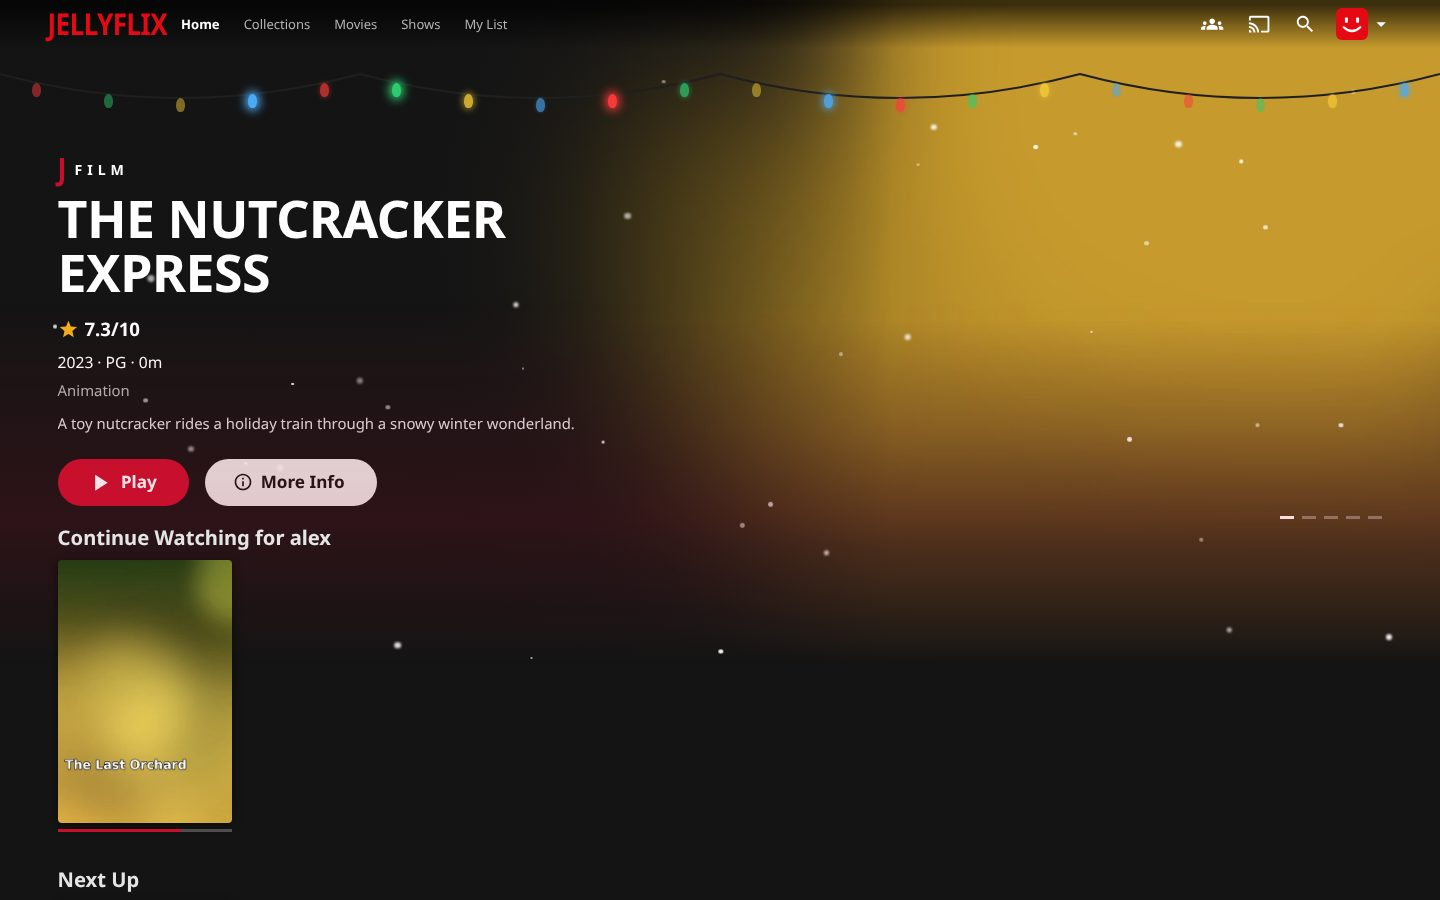
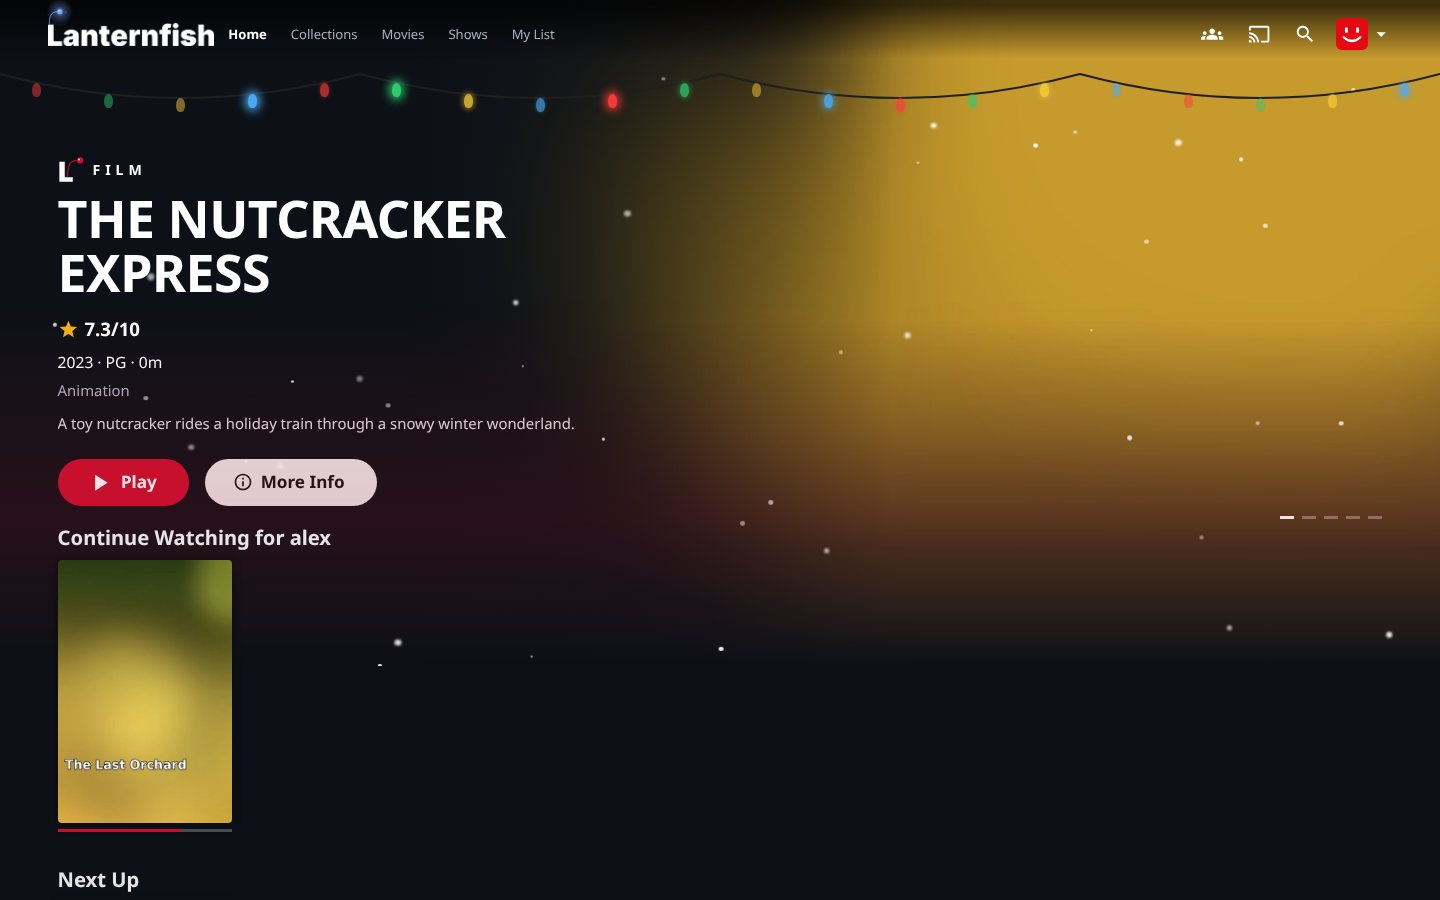
Rebrand to Lanternfish
- The Lanternfish wordmark in the top bar: the brand artwork's lettering,
  with the lure drawn in the theme's accent color so it glows in every theme
  (components/branding). The top bar gains room above for the lure.
- The L-and-lure mark replaces the "J" on hero badges, the dashboard menu
  and the dashboard header.
- Lanternfish favicon, touch icons and installed-app name and colors; the
  browser tab is named Lanternfish.
- Interface strings, dashboard section, card and settings page say
  Lanternfish. Internal names, API paths and settings keys are unchanged.
- Brand assets in docs/brand; new banner; README and every screenshot
  updated in the Midnight theme, with a section on the color themes.

Claude-Session: https://claude.ai/code/session_01UcX3L2D4GVSLMbVKHiMSry

diff --git a/src/apps/modern/components/AppToolbar/LanternfishLogo.tsx b/src/apps/modern/components/AppToolbar/LanternfishLogo.tsx
@@ -1,47 +1,19 @@
 import Box from '@mui/material/Box';
-import Typography from '@mui/material/Typography';
 import React, { type FC } from 'react';
 import { Link } from 'react-router-dom';
 
-/** The Lanternfish wordmark, linking home: the glowing lure (in the theme's accent) and the name. */
-const LanternfishLogo: FC = () => (
+import LanternfishLogo from 'components/branding/LanternfishLogo';
+
+/** The Lanternfish wordmark, linking home. The lure rises above it, into the top bar's padding. */
+const AppLogo: FC = () => (
     <Box
         component={Link}
         to='/home'
         aria-label='Lanternfish'
-        sx={{
-            display: 'inline-flex',
-            alignItems: 'flex-end',
-            gap: '0.15em',
-            mr: { xs: 1, md: 3 },
-            color: 'text.primary',
-            fontSize: { xs: '1.3rem', md: '1.6rem' },
-            lineHeight: 1,
-            textDecoration: 'none',
-            whiteSpace: 'nowrap',
-            userSelect: 'none'
-        }}
+        sx={{ display: 'inline-flex', alignItems: 'center', mr: { xs: 1, md: 3 }, textDecoration: 'none', userSelect: 'none' }}
     >
-        <Box
-            aria-hidden
-            sx={{
-                display: 'flex',
-                width: '0.7em',
-                height: '1.05em',
-                color: 'primary.main',
-                filter: 'drop-shadow(0 0 0.18em currentColor)'
-            }}
-        >
-            <svg viewBox='0 0 20 30' width='100%' height='100%' fill='none'>
-                <path d='M3 30 C3 13 8 6 14 6' stroke='currentColor' strokeWidth='2.4' strokeLinecap='round' />
-                <circle cx='15' cy='6' r='4.6' fill='currentColor' />
-                <circle cx='13.6' cy='4.6' r='1.5' fill='#fff' fillOpacity='0.85' />
-            </svg>
-        </Box>
-        <Typography component='span' sx={{ font: 'inherit', fontWeight: 800, letterSpacing: '-0.02em' }}>
-            Lanternfish
-        </Typography>
+        <LanternfishLogo height={{ xs: '19px', md: '24px' }} />
     </Box>
 );
 
-export default LanternfishLogo;
+export default AppLogo;

diff --git a/src/components/branding/Lure.tsx b/src/components/branding/Lure.tsx
@@ -1,0 +1,45 @@
+import Box from '@mui/material/Box';
+import type { SxProps, Theme } from '@mui/material/styles';
+import React, { type FC, useId } from 'react';
+
+interface LureProps {
+    viewBox: string
+    /** Where the stalk starts, on top of the L. */
+    base: [ number, number ]
+    /** The glowing orb's centre. */
+    orb: [ number, number ]
+    orbRadius: number
+    stroke: number
+    /** The soft glow around the orb; none when 0. */
+    glowRadius: number
+    sx?: SxProps<Theme>
+}
+
+/** The lanternfish's lure: a stalk curving up and over to a glowing orb, in the theme's accent color. */
+const Lure: FC<LureProps> = ({ viewBox, base: [ bx, by ], orb: [ ox, oy ], orbRadius, stroke, glowRadius, sx }) => {
+    const glowId = useId();
+    // Up from the L, then over to the orb's left edge
+    const end = ox - orbRadius * 0.95;
+    const path = `M${bx} ${by} C${bx} ${oy + (by - oy) * 0.35} ${bx + (end - bx) * 0.2} ${oy} ${end} ${oy}`;
+    return (
+        <Box component='svg' viewBox={viewBox} aria-hidden sx={[ { color: 'primary.main' }, ...(Array.isArray(sx) ? sx : [ sx ]) ]}>
+            {glowRadius > 0 && (
+                <>
+                    <defs>
+                        <radialGradient id={glowId}>
+                            <stop offset='0' stopColor='currentColor' stopOpacity='0.75' />
+                            <stop offset='0.4' stopColor='currentColor' stopOpacity='0.3' />
+                            <stop offset='1' stopColor='currentColor' stopOpacity='0' />
+                        </radialGradient>
+                    </defs>
+                    <circle cx={ox} cy={oy} r={glowRadius} fill={`url(#${glowId})`} />
+                </>
+            )}
+            <path d={path} stroke='currentColor' strokeWidth={stroke} fill='none' strokeLinecap='round' />
+            <circle cx={ox} cy={oy} r={orbRadius} fill='currentColor' />
+            <circle cx={ox - orbRadius * 0.32} cy={oy - orbRadius * 0.32} r={orbRadius * 0.3} fill='#fff' opacity='0.75' />
+        </Box>
+    );
+};
+
+export default Lure;

diff --git a/src/components/branding/LanternfishLogo.tsx b/src/components/branding/LanternfishLogo.tsx
@@ -1,0 +1,35 @@
+import Box from '@mui/material/Box';
+import type { SxProps, Theme } from '@mui/material/styles';
+import React, { type FC } from 'react';
+
+import wordmark from 'assets/img/lanternfish/wordmark.png';
+
+import Lure from './Lure';
+
+interface LanternfishLogoProps {
+    /** Height of the lettering, e.g. '24px' or '2vw'. The lure rises above it. */
+    height: string | object
+    sx?: SxProps<Theme>
+}
+
+/**
+ * The Lanternfish wordmark: the lettering from the brand artwork, with the lure drawn in the theme's accent color
+ * so it glows in every color theme.
+ */
+const LanternfishLogo: FC<LanternfishLogoProps> = ({ height, sx }) => (
+    <Box component='span' role='img' aria-label='Lanternfish' sx={[ { position: 'relative', display: 'inline-block', height, lineHeight: 0 }, ...(Array.isArray(sx) ? sx : [ sx ]) ]}>
+        <Box component='img' src={wordmark} alt='' sx={{ height: '100%', width: 'auto', display: 'block' }} />
+        {/* Measured from the brand artwork, in units of the lettering's height */}
+        <Lure
+            sx={{ position: 'absolute', left: 0, top: '-100%', height: '200%', width: 'auto', overflow: 'visible', pointerEvents: 'none' }}
+            viewBox='0 -100 120 200'
+            base={[ 5.28, 11.06 ]}
+            orb={[ 49.25, -43.22 ]}
+            orbRadius={11.06}
+            stroke={3.52}
+            glowRadius={55}
+        />
+    </Box>
+);
+
+export default LanternfishLogo;

diff --git a/src/components/branding/LanternfishMark.tsx b/src/components/branding/LanternfishMark.tsx
@@ -1,0 +1,29 @@
+import Box from '@mui/material/Box';
+import type { SxProps, Theme } from '@mui/material/styles';
+import React, { type FC } from 'react';
+
+import Lure from './Lure';
+
+/**
+ * The Lanternfish mark from the app icon: the L, with its lure in the theme's accent color. Sized by its width, like
+ * a Material icon.
+ */
+const LanternfishMark: FC<{ size?: string | number, glow?: boolean, sx?: SxProps<Theme> }> = ({ size = 24, glow = false, sx }) => (
+    <Box component='span' aria-hidden sx={[ { position: 'relative', display: 'inline-block', width: size, height: size, lineHeight: 0, flexShrink: 0 }, ...(Array.isArray(sx) ? sx : [ sx ]) ]}>
+        {/* Coordinates from the 512px app icon, cropped to the mark */}
+        <Box component='svg' viewBox='70 80 350 350' sx={{ position: 'absolute', inset: 0, width: '100%', height: '100%', color: 'text.primary' }}>
+            <path d='M88 155 H158 V358 H263 V415 H88 Z' fill='currentColor' />
+        </Box>
+        <Lure
+            viewBox='70 80 350 350'
+            sx={{ position: 'absolute', inset: 0, width: '100%', height: '100%', overflow: 'visible' }}
+            base={[ 194.5, 343 ]}
+            orb={[ 358, 138 ]}
+            orbRadius={41}
+            stroke={14}
+            glowRadius={glow ? 170 : 0}
+        />
+    </Box>
+);
+
+export default LanternfishMark;

diff --git a/src/apps/modern/features/home/components/HeroBanner.tsx b/src/apps/modern/features/home/components/HeroBanner.tsx
@@ -15,6 +15,7 @@ import React, { type FC, useEffect, useState } from 'react';
 import { useAppearance, useDynamicAccent } from 'apps/modern/features/appearance/api/useAppearance';
 import { accentVars } from 'apps/modern/features/appearance/components/AccentScope';
 import { useArtworkOverrides } from 'apps/modern/features/artwork/api/useArtwork';
+import LanternfishMark from 'components/branding/LanternfishMark';
 import { useApi } from 'hooks/useApi';
 import globalize from 'lib/globalize';
 
@@ -124,7 +125,7 @@ const HeroBanner: FC<HeroBannerProps> = ({ items }) => {
                     aria-hidden
                     sx={{ display: 'flex', alignItems: 'center', gap: 1, mb: 1, color: '#fff', fontSize: { xs: '0.8rem', md: '0.95rem' }, fontWeight: 600, letterSpacing: '0.35em' }}
                 >
-                    <Box component='span' sx={{ color: 'primary.main', fontSize: '1.9em', fontWeight: 900, letterSpacing: 0, lineHeight: 1, transform: 'scaleY(1.15)' }}>J</Box>
+                    <LanternfishMark size='1.9em' />
                     {globalize.translate(isSeries ? 'HeroKickerSeries' : 'HeroKickerFilm')}
                 </Typography>
 

diff --git a/src/apps/modern/features/title/components/TitleHero.tsx b/src/apps/modern/features/title/components/TitleHero.tsx
@@ -20,6 +20,7 @@ import Typography from '@mui/material/Typography';
 import React, { type FC, useState } from 'react';
 
 import { useArtworkOverrides } from 'apps/modern/features/artwork/api/useArtwork';
+import LanternfishMark from 'components/branding/LanternfishMark';
 import ArtworkDialog from 'apps/modern/features/artwork/components/ArtworkDialog';
 import { appRouter } from 'components/router/appRouter';
 import { useApi } from 'hooks/useApi';
@@ -114,7 +115,7 @@ const TitleHero: FC<TitleHeroProps> = ({ item, playTarget, match, badges = [] })
                     aria-hidden
                     sx={{ display: 'flex', alignItems: 'center', gap: 1, mb: 1, color: '#fff', fontSize: { xs: '0.8rem', md: '0.95rem' }, fontWeight: 600, letterSpacing: '0.35em' }}
                 >
-                    <Box component='span' sx={{ color: 'primary.main', fontSize: '1.9em', fontWeight: 900, letterSpacing: 0, lineHeight: 1, transform: 'scaleY(1.15)' }}>J</Box>
+                    <LanternfishMark size='1.9em' />
                     {globalize.translate(isSeries ? 'HeroKickerSeries' : 'HeroKickerFilm')}
                 </Typography>
 

diff --git a/src/apps/modern/components/drawers/DrawerHeaderLink.tsx b/src/apps/modern/components/drawers/DrawerHeaderLink.tsx
@@ -1,9 +1,9 @@
 import { getDisplayVersion } from '@jellyfin/sdk/lib/utils/versioning';
-import Box from '@mui/material/Box';
 import ListItemIcon from '@mui/material/ListItemIcon';
 import ListItemText from '@mui/material/ListItemText';
 import React from 'react';
 
+import LanternfishMark from 'components/branding/LanternfishMark';
 import { useSystemInfo } from 'hooks/useSystemInfo';
 import ListItemLink from 'components/ListItemLink';
 
@@ -13,13 +13,7 @@ const DrawerHeaderLink = () => {
     return (
         <ListItemLink to='/'>
             <ListItemIcon sx={{ minWidth: 56 }}>
-                <Box
-                    component='span'
-                    aria-hidden
-                    sx={{ width: '2.5rem', color: 'primary.main', fontSize: '2.6rem', fontWeight: 900, lineHeight: 1, textAlign: 'center', transform: 'scaleY(1.15)' }}
-                >
-                    J
-                </Box>
+                <LanternfishMark size='2.4rem' glow />
             </ListItemIcon>
             <ListItemText
                 primary={systemInfo?.ServerName || 'Lanternfish'}

diff --git a/src/components/toolbar/AppToolbar.tsx b/src/components/toolbar/AppToolbar.tsx
@@ -20,6 +20,8 @@ interface AppToolbarProps {
     isBackButtonAvailable?: boolean
     isUserMenuAvailable?: boolean
     className?: string
+    /** Extra room above the bar's contents, e.g. for the Lanternfish lure rising above the wordmark. */
+    topSpace?: string
 }
 
 const onBackButtonClick = () => {
@@ -39,7 +41,8 @@ const AppToolbar: FC<PropsWithChildren<AppToolbarProps>> = ({
     onDrawerButtonClick = () => { /* no-op */ },
     isBackButtonAvailable = false,
     isUserMenuAvailable = true,
-    className
+    className,
+    topSpace
 }) => {
     const { user } = useApi();
     const isUserLoggedIn = Boolean(user);
@@ -52,7 +55,8 @@ const AppToolbar: FC<PropsWithChildren<AppToolbarProps>> = ({
                 flexWrap: {
                     xs: 'wrap',
                     lg: 'nowrap'
-                }
+                },
+                pt: topSpace
             }}
         >
             {isUserLoggedIn && isDrawerAvailable && (

diff --git a/src/apps/dashboard/features/jellyflix/components/JellyFlixIcon.tsx b/src/apps/dashboard/features/jellyflix/components/JellyFlixIcon.tsx
@@ -1,24 +1,8 @@
-import Box from '@mui/material/Box';
 import React, { type FC } from 'react';
 
-/** JellyFlix's red "J", sized like a Material icon. */
-const JellyFlixIcon: FC = () => (
-    <Box
-        component='span'
-        aria-hidden
-        sx={{
-            display: 'inline-flex',
-            justifyContent: 'center',
-            width: 24,
-            color: 'primary.main',
-            fontSize: '1.6rem',
-            fontWeight: 900,
-            lineHeight: 1,
-            transform: 'scaleY(1.15)'
-        }}
-    >
-        J
-    </Box>
-);
+import LanternfishMark from 'components/branding/LanternfishMark';
+
+/** The Lanternfish mark, sized like a Material icon. */
+const JellyFlixIcon: FC = () => <LanternfishMark size={24} />;
 
 export default JellyFlixIcon;

diff --git a/src/apps/dashboard/routes/jellyflix/index.tsx b/src/apps/dashboard/routes/jellyflix/index.tsx
@@ -115,11 +115,11 @@ export const Component: FC = () => {
     if (isPending) return <Loading />;
 
     return (
-        <Page id='jellyflixSettingsPage' title='JellyFlix' className='type-interior mainAnimatedPage'>
+        <Page id='jellyflixSettingsPage' title='Lanternfish' className='type-interior mainAnimatedPage'>
             <Box className='content-primary'>
                 <Stack spacing={3} component='form' onSubmit={onSubmit}>
                     <Box>
-                        <Typography variant='h1'>JellyFlix</Typography>
+                        <Typography variant='h1'>Lanternfish</Typography>
                         <Typography sx={{ color: 'text.secondary', mt: 1 }}>{globalize.translate('JellyFlixSettingsHelp')}</Typography>
                     </Box>
 

diff --git a/src/scripts/libraryMenu.js b/src/scripts/libraryMenu.js
@@ -689,7 +689,8 @@ let navDrawerInstance;
 let mainDrawerButton;
 let headerHomeButton;
 let currentDrawerType;
-let documentTitle = 'Lanternfish';
+// Lanternfish: the tab is named after the app, not the server
+const documentTitle = 'Lanternfish';
 let pageTitleElement;
 let headerBackButton;
 let headerUserButton;
@@ -725,8 +726,7 @@ function setTabs (type, selectedIndex, builder) {
 const fetchServerName = (_apiClient) => {
     _apiClient
         ?.getPublicSystemInfo()
-        .then(({ ServerName }) => {
-            documentTitle = ServerName || documentTitle;
+        .then(() => {
             document.title = documentTitle;
         })
         .catch(err => {

diff --git a/src/index.html b/src/index.html
@@ -13,7 +13,7 @@
     <meta name="robots" content="noindex, nofollow, noarchive">
     <meta name="referrer" content="no-referrer">
 
-    <meta id="themeColor" name="theme-color" content="#202020">
+    <meta id="themeColor" name="theme-color" content="#0d1117">
 
     <link rel="apple-touch-icon" sizes="180x180" href="assets/img/lanternfish/touchicon.png">
     <link rel="shortcut icon" href="assets/img/lanternfish/favicon.ico">
